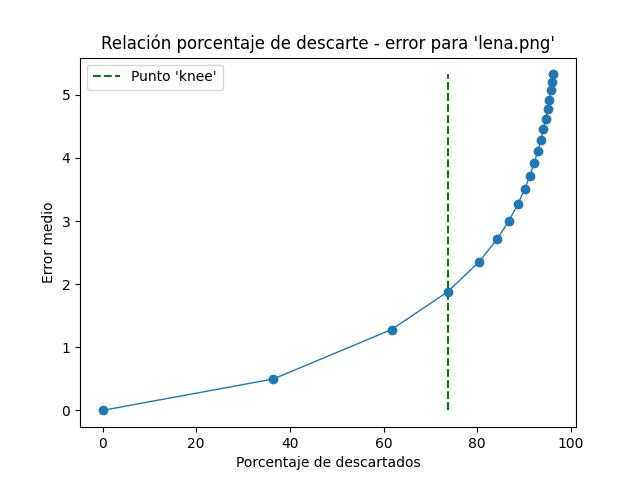
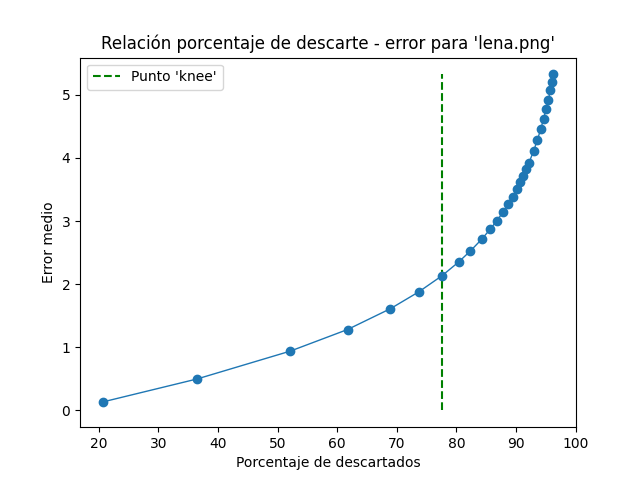
compresión hecha sólo para el caso en B/N

diff --git a/img_code/tfg_img.py b/img_code/tfg_img.py
@@ -138,9 +138,9 @@ def save_img(file_name, img, normalize=False):
         im = cv2.cvtColor(im, cv2.COLOR_BGR2RGB)
     cv2.imwrite(file_name, im)
 
-#######################
-###   FUNCIONES   ###
-#######################
+##########################
+###   HAAR TRANSFORM   ###
+##########################
 
 """ Realiza el algoritmo Haar Wavelet de manera recursiva realizando las particiones
 adecuadas y calculando sus medias y diferencias. Devuelve una lista con los coeficientes.
@@ -451,9 +451,17 @@ def crop_size(img, rows, cols, img_title="Imagen"):
 - file_org: archivo original.
 - file_rev: arhivo greedy.
 """
-def diff_size(file_org, file_rev):
+def diff_size_file(file_org, file_rev):
     print("El archivo original pesa {} bytes y el greedy {} bytes."
           .format(os.stat(file_org).st_size, os.stat(file_rev).st_size))
+
+""" Imprime por pantalla el tamaño en bytes de los archivos.
+- file_org: archivo original.
+- file_rev: arhivo greedy.
+"""
+def diff_size(img, comp_img):
+    print("El archivo original pesa {} bytes y la compresión del greedy {} bytes."
+          .format(img.nbytes, np.array(comp_img).nbytes))
 
 """ Concatena dos imágenes de la manera más adecuada. Devuelve la imagen resultante.
 - img1: imagen 1 a concatenar.
@@ -503,7 +511,7 @@ def norm_hn(n):
 def norm_pixel(row, col):
     return norm_hn(row+1) * norm_hn(col+1)
 
-""" Experimento greedy a realizar.
+""" Experimento greedy a realizar. Devuelve la compresión.
 - img_title: título de la imagen.
 - flag: 0 para B/N y 1 color.
 - fun: función de aproximación (threesholding, m_term).
@@ -521,8 +529,19 @@ def experiment(img_title, flag, fun, param, print_mat = False, show_im = True, s
     haar_img = haar_image(ext, img_title)
     # Aplicándole el algoritmo greedy
     greedy_img, perc, ratio = fun(haar_img, param, img_title)
+    # Comprimimos
+    comp, cent = compress_img(greedy_img, img_title)
+
+    """
+    AQUÍ REALIZARÍAMOS EL ENVÍO DE 'comp'
+    """
+
+    # Descomprimimos
+    uncomp = uncompress_img(comp, cent, img_title)
+    print(greedy_img)
+    print(uncomp)
     # Restaurando la imagen original
-    rev_img = reverse_image(greedy_img, img_title)
+    rev_img = reverse_image(uncomp, img_title)
 
     if(rev_img.shape != img.shape): # recorta si hemos extendido
         rev_img = crop_size(rev_img, img.shape[0], img.shape[1], img_title)
@@ -548,15 +567,16 @@ def experiment(img_title, flag, fun, param, print_mat = False, show_im = True, s
     # Concatenamos la imagen original y la recuperada para pintarla
     concat_img = concat(img, normaliza(rev_img, img_title))
     if(show_im):
-        show_img(concat_img, 0, img_title, "Haar wavelets")
+        show_img(concat_img, flag, img_title, "Haar wavelets")
 
     if(save_im):    # Guardamos las imágenes
         save_img("images/rev" + str(param) + "_" + img_title, rev_img, True)
         save_img("images/greedy" + str(param) + "_" + img_title, greedy_img, False)
         #save_img("images/concat" + str(param) + "_" + img_title, concat_img, False)
-        diff_size("images/" + img_title, "images/greedy_" + img_title)
 
-    return err, perc, ratio
+    diff_size(img, comp)
+
+    return comp
 
 """ Obtenemos el gradiente de la imagen
 - img_title: título de la imagen.
@@ -583,7 +603,12 @@ def getDerivates(img_title, flag):
 
     return der
 
+########################
+###   OPTIMIZATION   ###
+########################
+
 """ Experimento greedy a realizar.
+Devuelve el error, porcentaje de descarte y ratio de descompresión obtenidos.
 - img: imagen inicial sobre la que realizar el experimento.
 - thr: parámetro de la función de aproximación.
 """
@@ -613,7 +638,10 @@ def optimization(img_title, flag):
     print("Tamaño de la imagen: {}.".format(img.shape))
     thrs = []; errs = []; pers = []; rats = []
 
-    for thr in range(0,40,2):
+    for thr in range(1,20,1):
+        err, per, rat = experiment_opt(img, thr)
+        thrs.append(thr); errs.append(err); pers.append(per); rats.append(rat)
+    for thr in range(20,40,2):
         err, per, rat = experiment_opt(img, thr)
         thrs.append(thr); errs.append(err); pers.append(per); rats.append(rat)
 
@@ -661,17 +689,94 @@ def optimization(img_title, flag):
     return opt_thr, kneedle.knee
 
 #######################
+###   COMPRESSION   ###
+#######################
+
+def compress_img(greedy_img, img_title="Imagen"):
+    comp = []
+    cent = int(np.amax(greedy_img)) + 1
+
+    if(img_title != ""):
+        print("Comprimiendo imagen de coeficientes de '{}' con valor centinela {}."
+              .format(img_title, cent))
+
+    for i in range(len(greedy_img)):
+        row = []
+        count = 0
+
+        for j in range(len(greedy_img[0])-1):
+            if(greedy_img[i][j]==0):
+                count +=1
+            elif(count>0):
+                row.append(cent)
+                row.append(count)
+                count = 0
+                row.append(greedy_img[i][j])
+            else:
+                row.append(greedy_img[i][j])
+
+        if(count>0):
+            if(greedy_img[i][-1]==0):
+                row.append(cent)
+                row.append(count+1)
+            else:
+                row.append(cent)
+                row.append(count)
+        else:
+            row.append(greedy_img[i][-1])
+
+        comp.append(row)
+
+    return comp, cent
+
+def uncompress_img(lists, cent, img_title="Imagen"):
+    if(img_title != ""):
+        print("Descomprimiendo imagen '{}'.".format(img_title))
+
+    img = []
+    act = False
+
+    for li in lists:
+        row = []
+        for j in range(len(li)):
+            if(act == True):
+                act = False
+                for i in range(li[j]):
+                    row.append(0)
+            elif(li[j]!=cent):
+                row.append(li[j])
+            else:   # li[j]==cent
+                act = True
+
+        img.append(row)
+
+    return np.array(img).astype(np.float32)
+
+def test_compress():
+    mat = np.array([[4,0,0,0],
+                    [0,3,0,0],
+                    [1,2,3,0],
+                    [0,0,0,0]
+    ])
+    com, cent = compress_img(mat, "")
+    print(com)
+    un = uncompress_img(com, cent, "")
+    print(un)
+
+
+#######################
 ###       MAIN      ###
 #######################
 
 """ Programa principal. """
 def main():
+    #test_compress()
     experiment("lena.png", 0, threesholding, 40.0)
     #experiment("lion.png", 0, threesholding, 50.0)
     #experiment("lena_color.png", 1, threesholding, 50.0)
     #experiment("alham.png", 1, threesholding, 40.0)
 
-    getDerivates("lena.png", 0)
+    #getDerivates("lena.png", 0)
 
     #optimization("lena.png", 0)
     #optimization("alham.png", 1)
